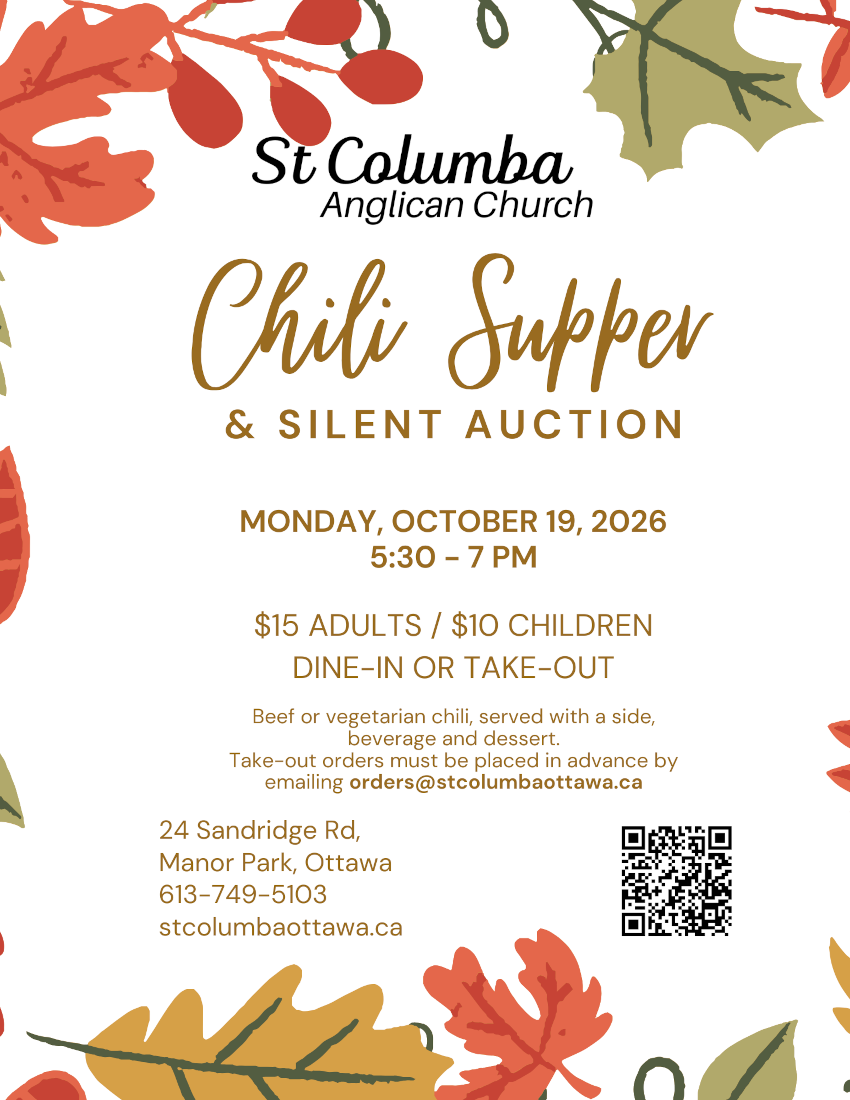
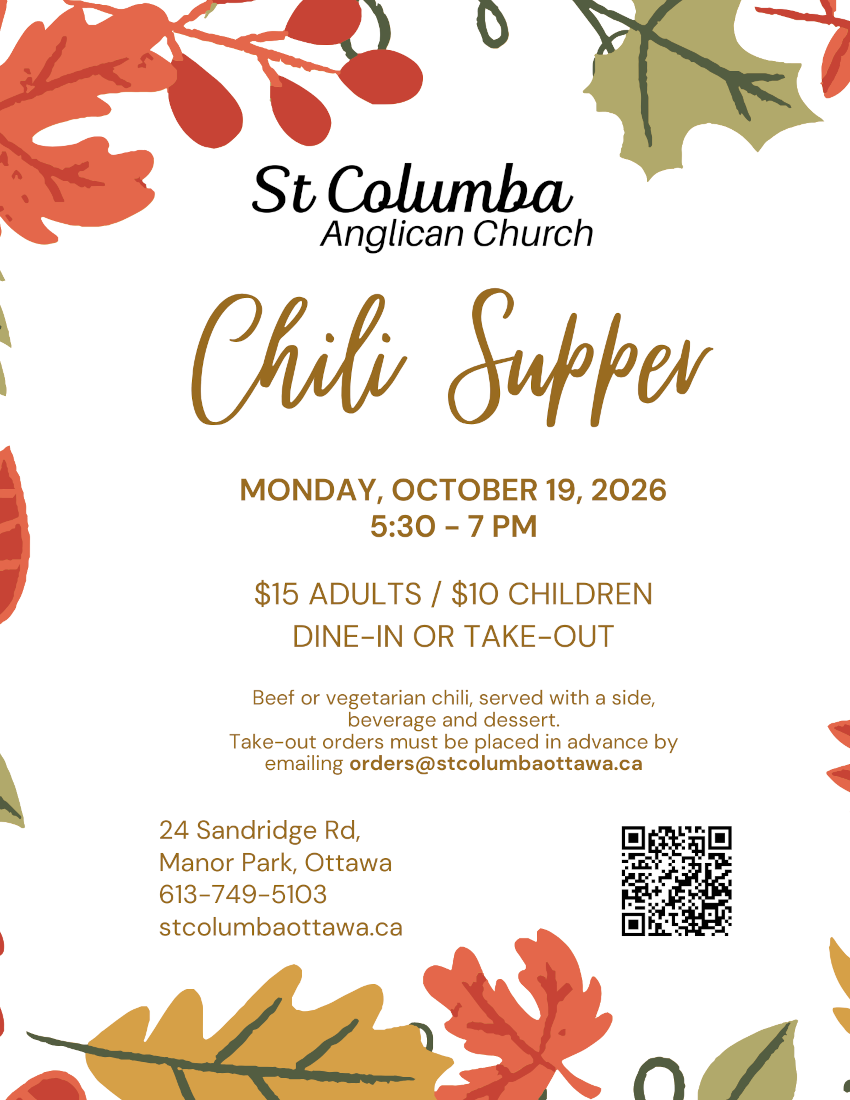
Remove silent auction.

Changed region(s): [[0.2753, 0.4327, 0.7953, 0.7418], [0.2141, 0.1236, 0.8259, 0.4018]]

diff --git a/pages/pages-root-folder/index.md b/pages/pages-root-folder/index.md
@@ -56,7 +56,7 @@ widget2:
   title: "Chili Supper"
   url: /2026/chili-supper
   image: widget-harvest-chili-supper-2019.png
-  text: "Join us on Monday, October 19 for homemade chili (beef or vegetarian). Silent auction fundraiser also available. Cost is $15 for adults and $10 for children."
+  text: "Join us on Monday, October 19 for homemade chili (beef or vegetarian). Cost is $15 for adults and $10 for children."
 
 widget3:
   title: "Facilities"

diff --git a/_posts/2026-09-25-chili-supper.md b/_posts/2026-09-25-chili-supper.md
@@ -18,5 +18,3 @@ image:
 ---
 Enjoy beef or vegetarian chili, served with a side, beverage and dessert.  Adults $15 and children $10.  Dine-in or take-out available.  Take-out orders must be placed in advance by emailing [orders@stcolumbaottawa.ca](mailto:orders@stcolumbaottawa.ca).
 
-Visit with neighbours and enter the silent auction fundraiser.
-
